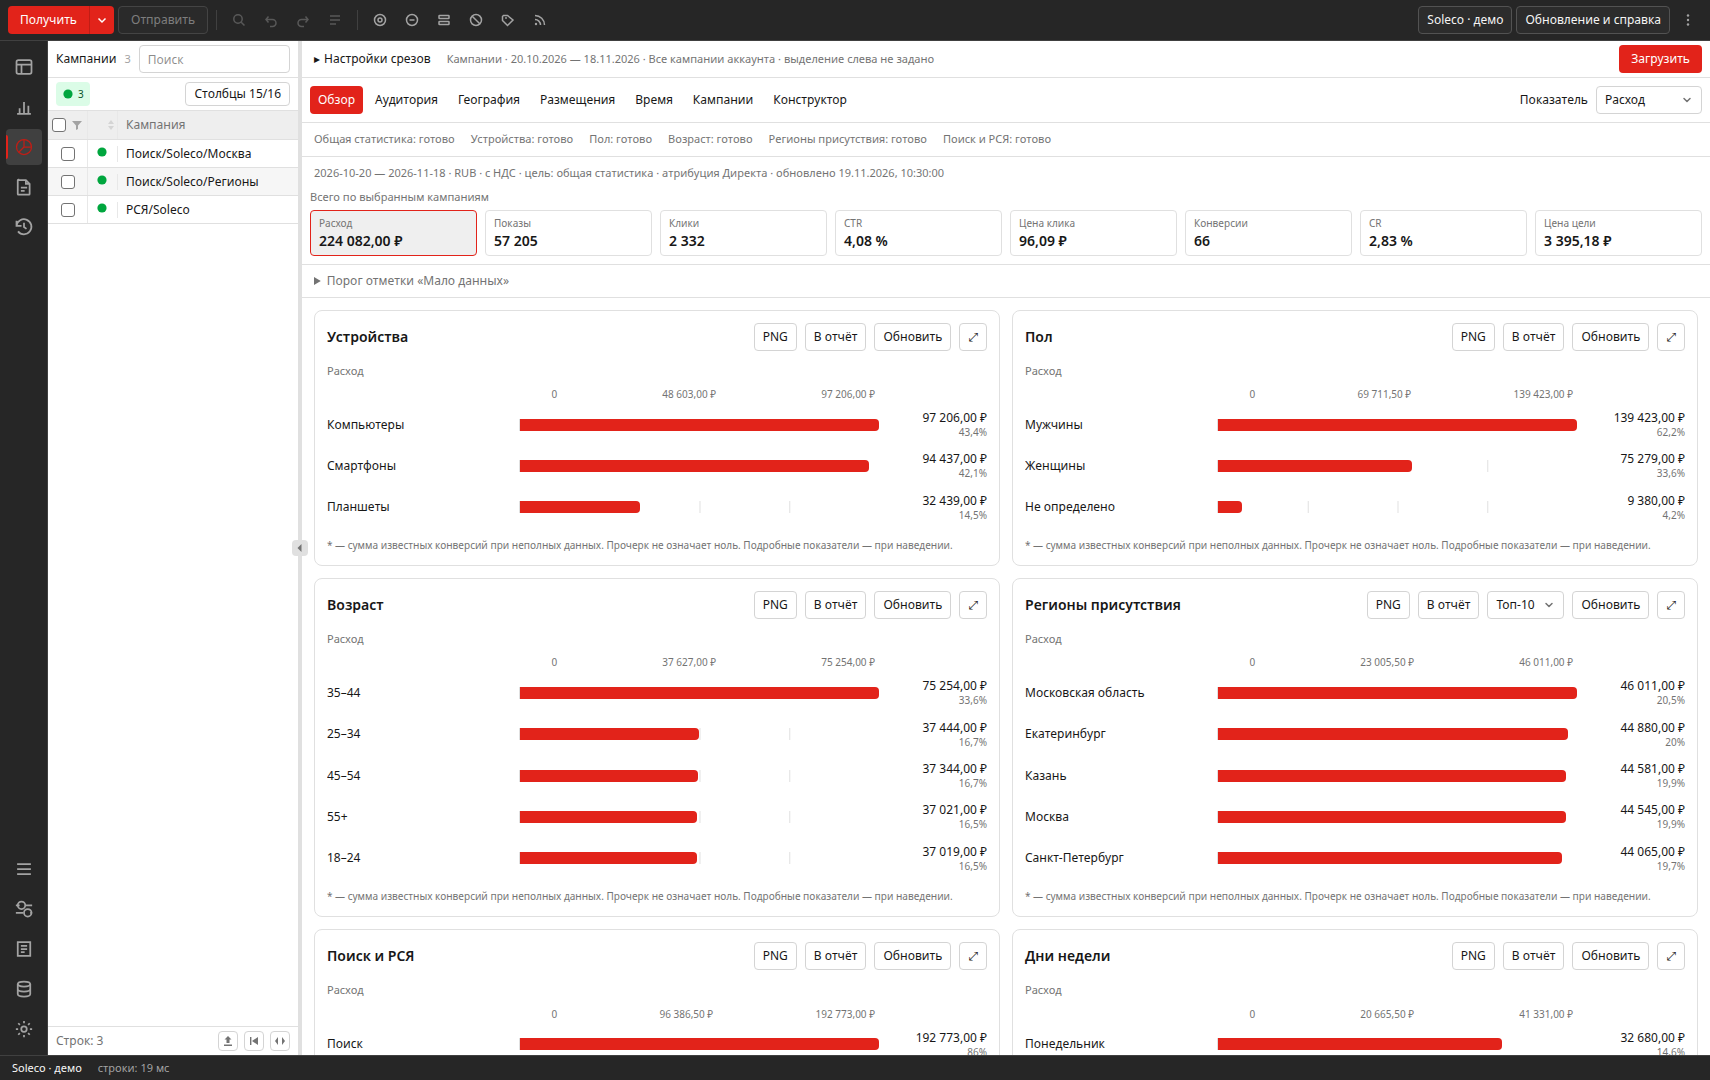
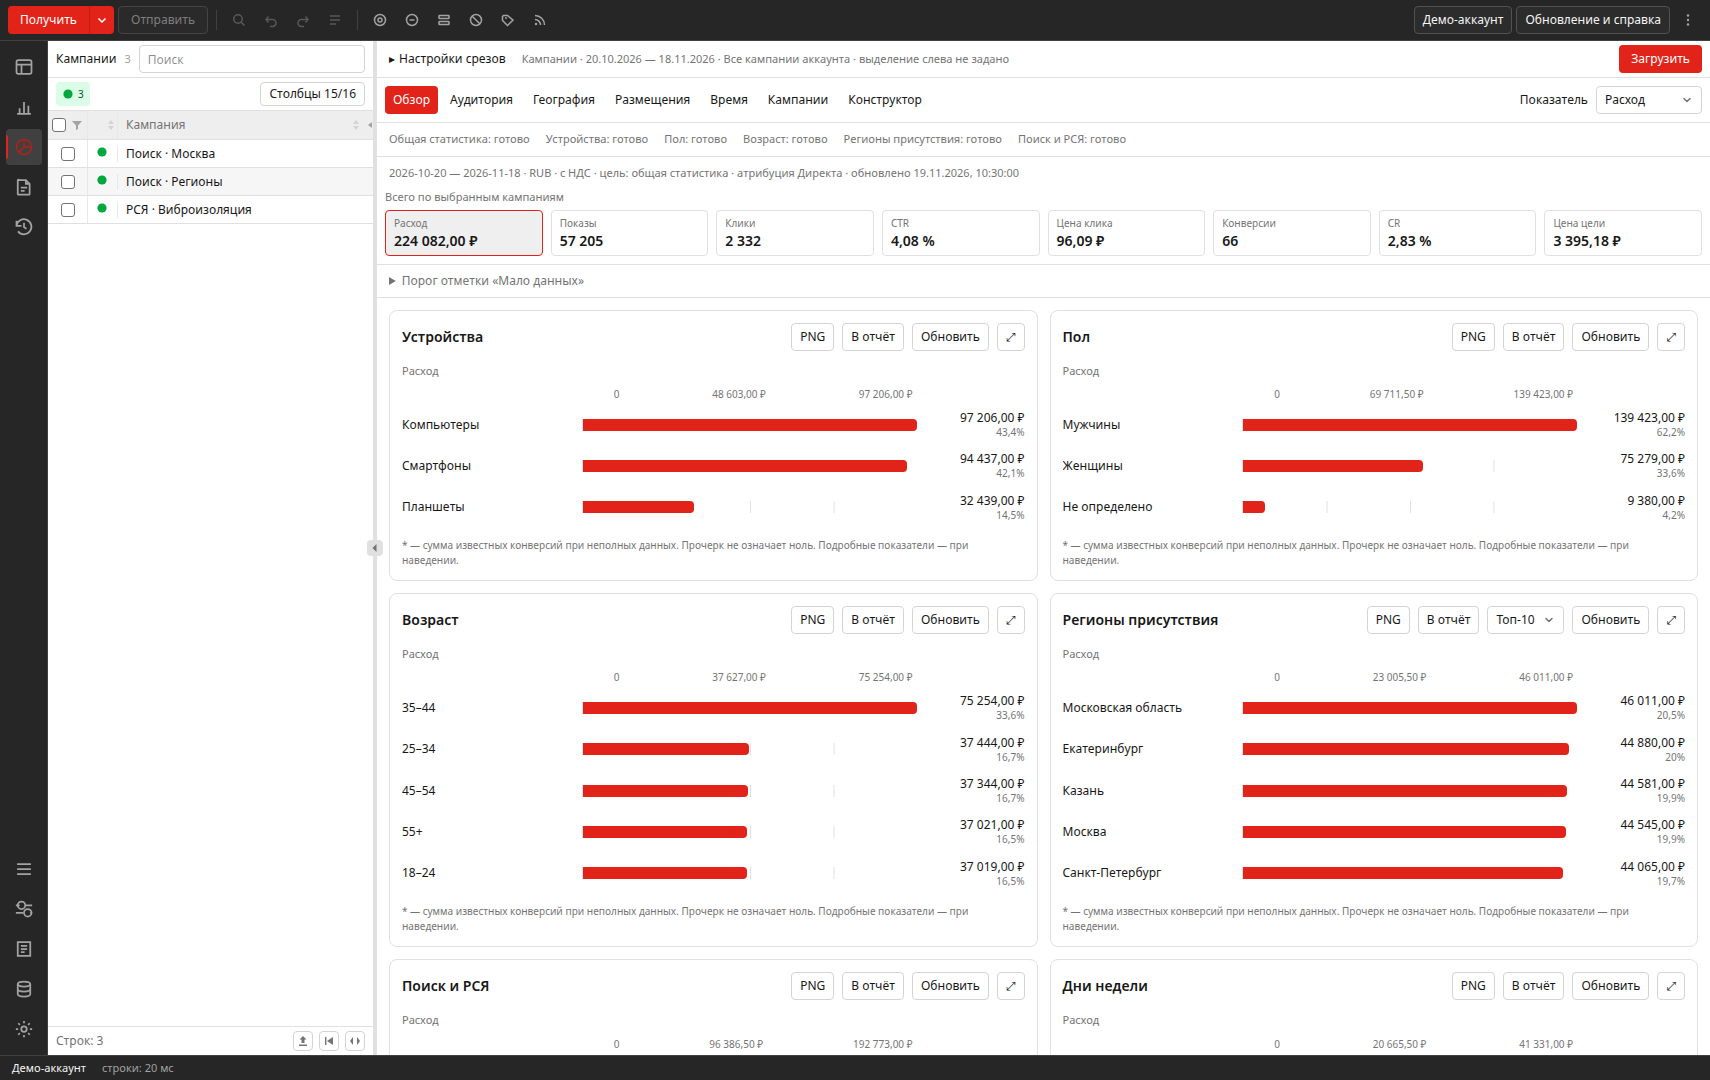
docs: use an anonymous demo account in screenshots

diff --git a/README.md b/README.md
@@ -15,7 +15,7 @@
 > дифф и используйте тестовое подключение для новых сценариев.
 
 
-![Кампании и группы Soleco в Turbo Commander](docs/assets/turbo-commander-soleco-campaigns.png)
+![Кампании и группы в Turbo Commander](docs/assets/turbo-commander-demo-campaigns.png)
 
 ## Скачать
 
@@ -70,19 +70,19 @@ Undo/Redo и только затем нажать «Отправить».
 
 ## Скриншоты
 
-В начале страницы показаны кампании и группы Soleco. Идентификаторы и бюджет скрыты. В редакторе минус-фраз введён демонстрационный список.
+На скриншотах показан демонстрационный аккаунт с вымышленными кампаниями, объявлениями и минус-фразами.
 
 ### Редактор объявлений
 
-![Таблица объявлений и редактор заголовков и текстов](docs/assets/turbo-commander-soleco-ads.png)
+![Таблица объявлений и редактор заголовков и текстов](docs/assets/turbo-commander-demo-ads.png)
 
 ### Минус-фразы кампании
 
-![Редактор списка минус-фраз в настройках кампании](docs/assets/turbo-commander-soleco-negatives.png)
+![Редактор списка минус-фраз в настройках кампании](docs/assets/turbo-commander-demo-negatives.png)
 
 ### Отчёты и срезы
 
-Данные в этих двух примерах сгенерированы для демонстрации. Запросы и метрики условны.
+Поисковые запросы и показатели сгенерированы для демонстрации.
 
 **Отчёты · Поисковые запросы.** Таблица с показами, кликами и расходом. Отмеченные строки можно передать в редактор минус-фраз.
 
